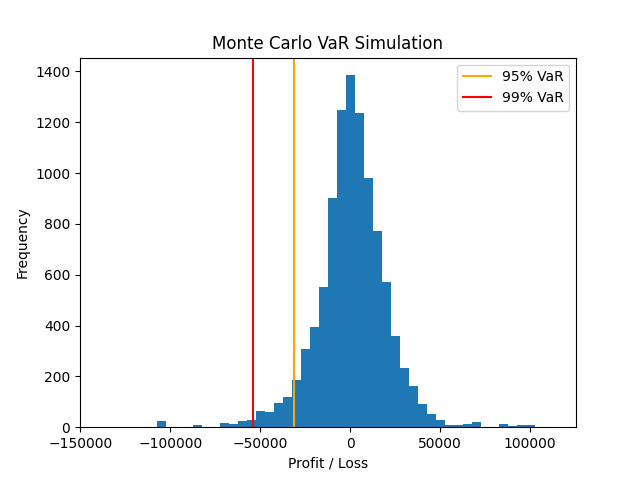
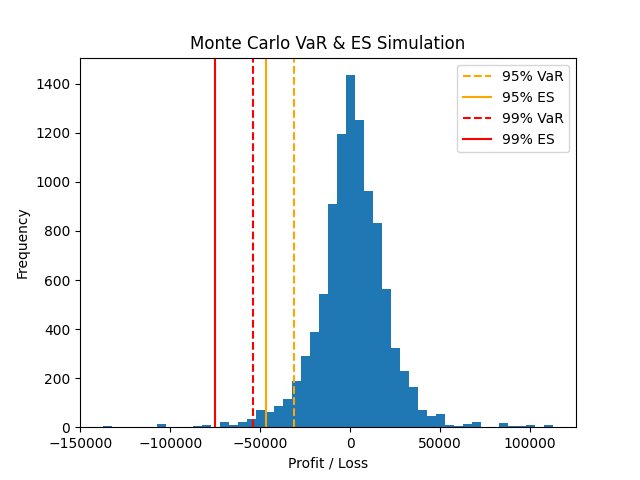
parallel branch

diff --git a/var_parallel.py b/var_parallel.py
@@ -1,0 +1,113 @@
+import numpy as np
+import pandas as pd
+import time
+import matplotlib.pyplot as plt
+from concurrent.futures import ProcessPoolExecutor
+import multiprocessing as mp
+import os
+
+
+NUM_SIMULATIONS = 10_000
+INITIAL_PORTFOLIO = 1_000_000
+
+
+# --- Worker function ---
+def simulate_batch(n_sims, returns, initial_portfolio, seed):
+    rng = np.random.default_rng(seed)
+    sampled_returns = rng.choice(returns, size=n_sims)
+    pnl = initial_portfolio * sampled_returns
+    return pnl
+
+
+# --- Parallel execution ---
+def run_parallel_simulation(num_simulations, returns, initial_portfolio):
+    num_workers = os.cpu_count() or 4
+    batch_size = num_simulations // num_workers
+
+    futures = []
+    results = []
+
+    with ProcessPoolExecutor(max_workers=num_workers) as executor:
+        for i in range(num_workers):
+            n_sims = (
+                batch_size
+                if i < num_workers - 1
+                else num_simulations - batch_size * (num_workers - 1)
+            )
+
+            futures.append(
+                executor.submit(
+                    simulate_batch,
+                    n_sims,
+                    returns,
+                    initial_portfolio,
+                    i
+                )
+            )
+
+        for future in futures:
+            results.append(future.result())
+
+    return np.concatenate(results)
+
+
+# --- Risk metrics ---
+def compute_var_es(pnl, alpha):
+    """
+    alpha = 0.95 -> 95% VaR / ES
+    """
+    var_threshold = np.percentile(pnl, (1 - alpha) * 100)
+
+    # Tail losses (<= VaR threshold)
+    tail_losses = pnl[pnl <= var_threshold]
+
+    es = tail_losses.mean() if len(tail_losses) > 0 else var_threshold
+
+    return var_threshold, es
+
+
+def main():
+    returns = pd.read_csv("data/aapl_returns.csv")["Log Return"].values
+
+    start = time.perf_counter()
+
+    simulated_pnl = run_parallel_simulation(
+        NUM_SIMULATIONS,
+        returns,
+        INITIAL_PORTFOLIO
+    )
+
+    # --- VaR & ES ---
+    var_95, es_95 = compute_var_es(simulated_pnl, 0.95)
+    var_99, es_99 = compute_var_es(simulated_pnl, 0.99)
+
+    end = time.perf_counter()
+    runtime = end - start
+
+    print(f"95% VaR: ${var_95:,.2f}")
+    print(f"95% ES : ${es_95:,.2f}")
+    print(f"99% VaR: ${var_99:,.2f}")
+    print(f"99% ES : ${es_99:,.2f}")
+    print(f"Runtime: {runtime:.4f} seconds")
+
+    # --- Plot ---
+    plt.hist(simulated_pnl, bins=50)
+
+    plt.axvline(var_95, color='orange', linestyle='--', label='95% VaR')
+    plt.axvline(es_95, color='orange', linestyle='-', label='95% ES')
+
+    plt.axvline(var_99, color='red', linestyle='--', label='99% VaR')
+    plt.axvline(es_99, color='red', linestyle='-', label='99% ES')
+
+    plt.title("Monte Carlo VaR & ES Simulation")
+    plt.xlabel("Profit / Loss")
+    plt.ylabel("Frequency")
+    plt.legend()
+
+    plt.savefig("histogram.png")
+    plt.close()
+
+
+if __name__ == "__main__":
+    mp.set_start_method("spawn", force=True)
+    main()
